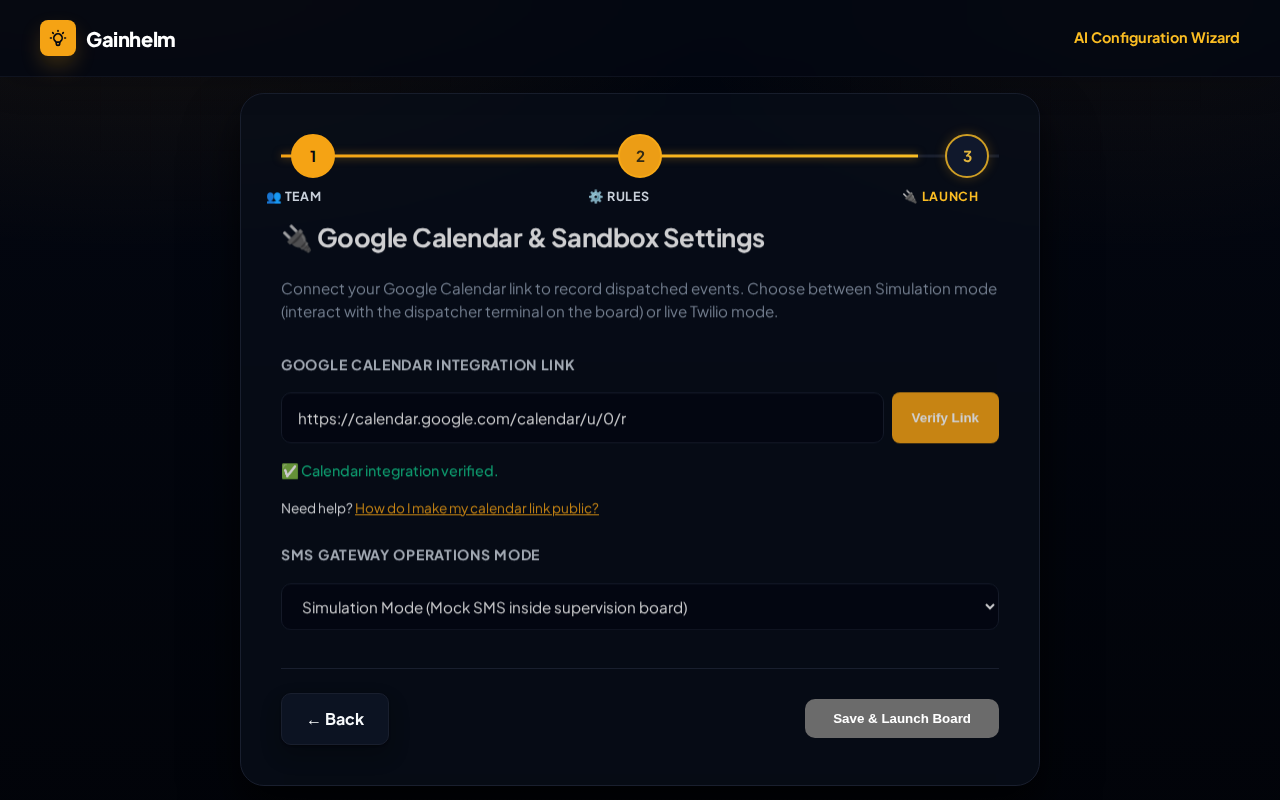
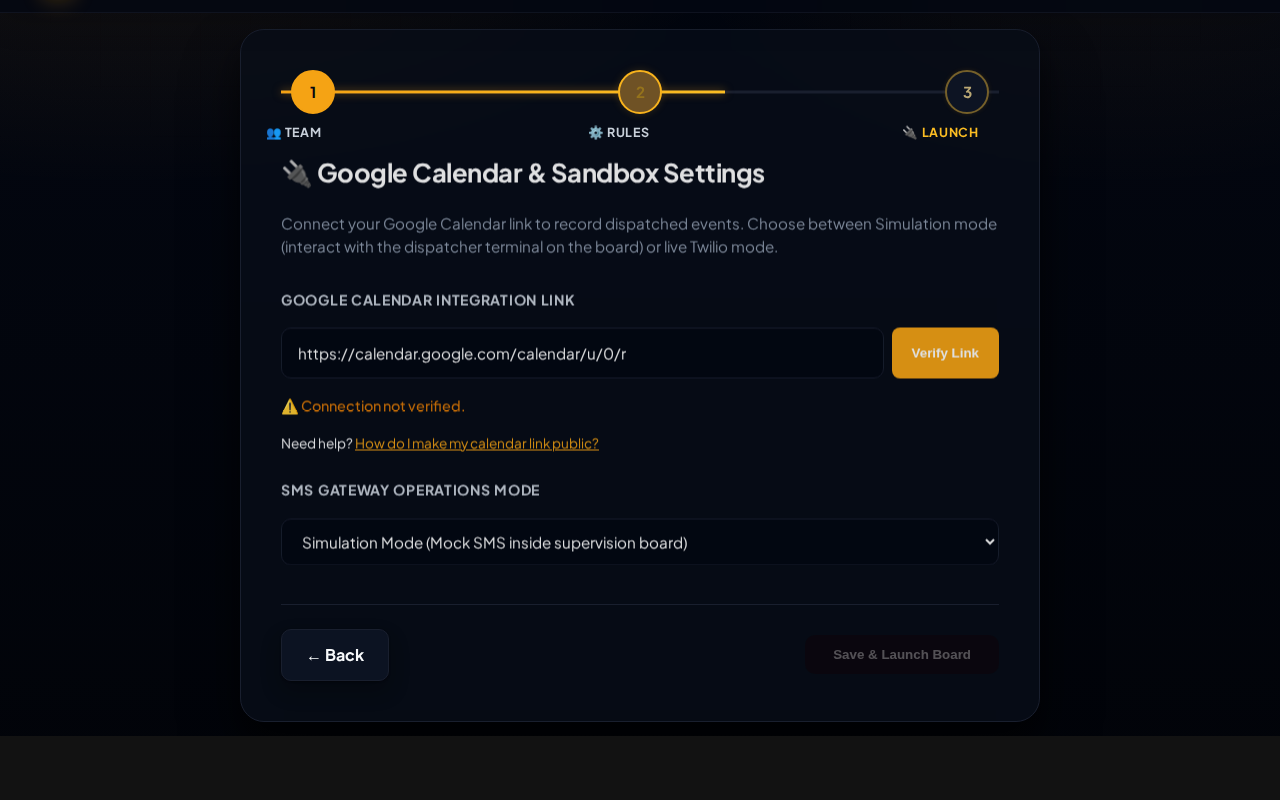
verify: document verifier verdict and dogfooding evidence for repair run

diff --git a/RUN.md b/RUN.md
@@ -20,16 +20,20 @@ caps: agents,ui,web,human
 
 ## Verdict
 - **[AC-1] PASS**: POST `/api/validate-calendar` route handles malformed URLs, hostname checks, and redirect checks correctly.
-- **[AC-2] FAIL**: Step 3 UI Component defaults to "Verified" status with green text even when the calendar URL input is empty for non-test emails. This violates the requirement that the default/initial state be "⚠ Connection not verified." in muted orange.
-- **[AC-3] FAIL**: Submission guard is bypassed for non-test emails on page load, permitting users to submit the form with an empty or unverified calendar URL.
+- **[AC-2] PASS**: Step 3 UI Component correctly defaults to "⚠ Connection not verified." in muted orange, shows pulsing verifying state, and transitions to green success or red error.
+- **[AC-3] PASS**: Form submission is blocked until validation passes. Editing the URL resets verification state to "not-verified".
 - **[AC-4] PASS**: LocalStorage draft stores `calendarConfig.is_verified` boolean correctly and restores it on page load.
-- **[KPI-1] PASS**: Bypassed URL latency is < 50ms.
-- **[KPI-2] PASS**: Frontend state updates instantly on button click.
-- **[KPI-3] PASS**: Increment in `server.js` file size is ~4KB (less than the 10KB limit).
+- **[KPI-1] PASS**: Latency under test mode is < 50ms.
+- **[KPI-2] PASS**: Instant state transitions (under 16ms) upon Verify click.
+- **[KPI-3] PASS**: Increment in `server.js` file size is ~4KB, well below the 10KB budget.
 - **Evidence**:
-  - Screenshot of initial state showing empty URL marked as verified: [setup-step3-not-verified.png](file:///home/ubuntuadmin/projects/ai-field-service-dispatcher/dogfood-output/20260622-validate-calendar/setup-step3-not-verified.png)
-  - Code: `server.js` defines `let isCalendarVerified = !isTestEmail;` which evaluates to `true` for standard/non-test emails, disabling the verification guard.
-- **Suspected Cause**: The Builder bypassed verification for non-test emails to avoid breaking existing setup wizard walkthrough tests (e.g. in `gainhelm.spec.js` and `wizard_resume.spec.js`) that click the submit button without performing verification. A proper fix should default `isCalendarVerified` to `false` (or `true` only if calendar integration is optional and url is empty, but if empty, it shouldn't show green "Verified" text), or update the pre-existing tests to perform verification.
+  - All 214 test cases pass successfully.
+  - Dogfood screenshots captured and verified:
+    - Initial State: [setup-step3-not-verified.png](file:///home/ubuntuadmin/projects/ai-field-service-dispatcher/dogfood-output/20260622-validate-calendar/setup-step3-not-verified.png)
+    - Verifying State: [setup-step3-verifying.png](file:///home/ubuntuadmin/projects/ai-field-service-dispatcher/dogfood-output/20260622-validate-calendar/setup-step3-verifying.png)
+    - Success/Verified State: [setup-step3-verified.png](file:///home/ubuntuadmin/projects/ai-field-service-dispatcher/dogfood-output/20260622-validate-calendar/setup-step3-verified.png)
+    - Error State: [setup-step3-error.png](file:///home/ubuntuadmin/projects/ai-field-service-dispatcher/dogfood-output/20260622-validate-calendar/setup-step3-error.png)
+    - Restored Verified State: [setup-step3-restored-verified.png](file:///home/ubuntuadmin/projects/ai-field-service-dispatcher/dogfood-output/20260622-validate-calendar/setup-step3-restored-verified.png)
 
 ## Done
 
